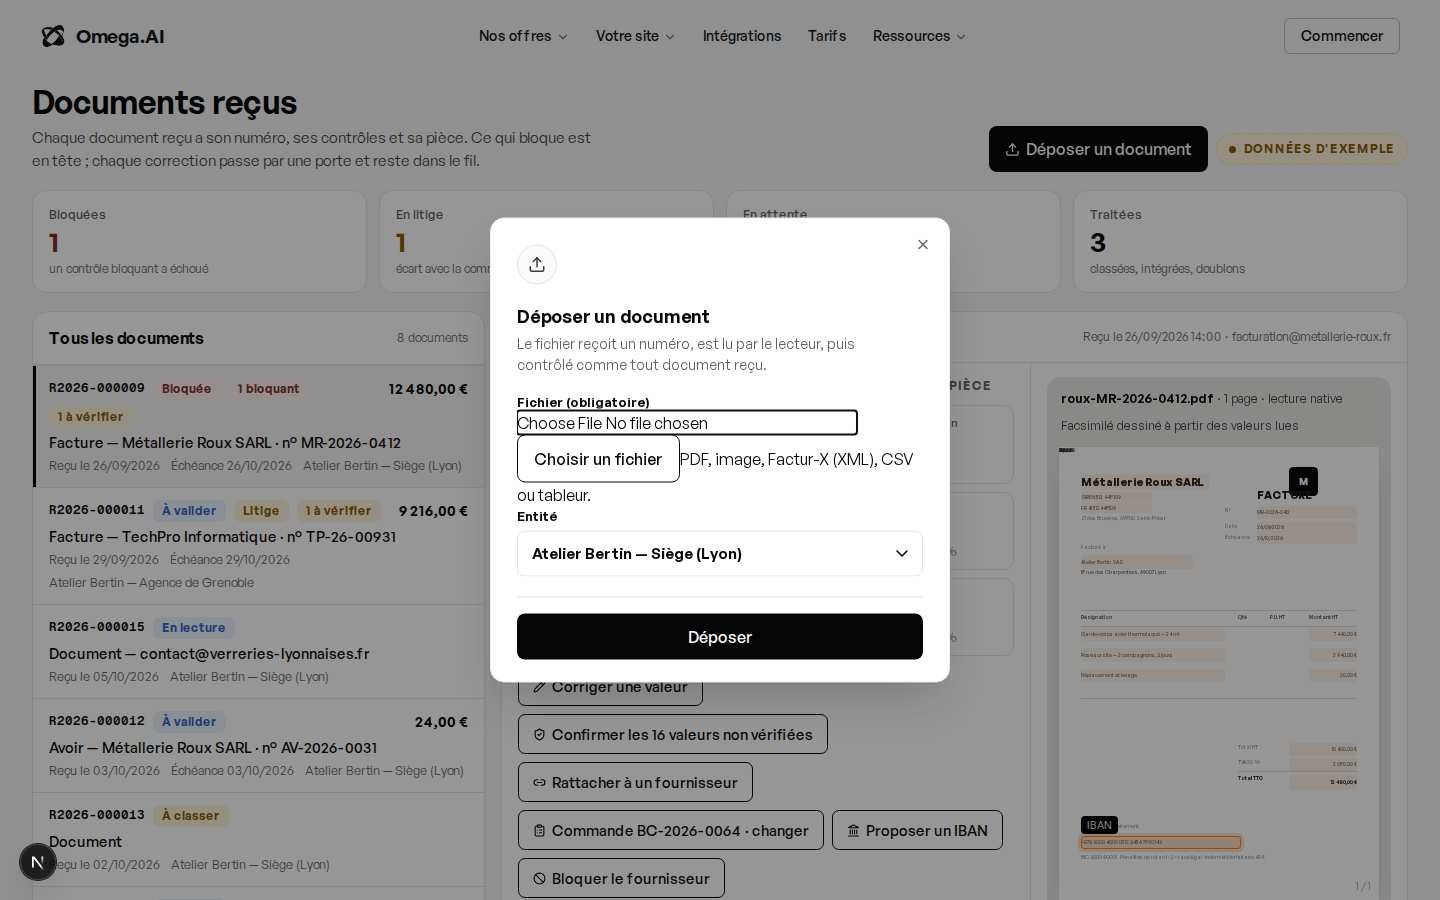
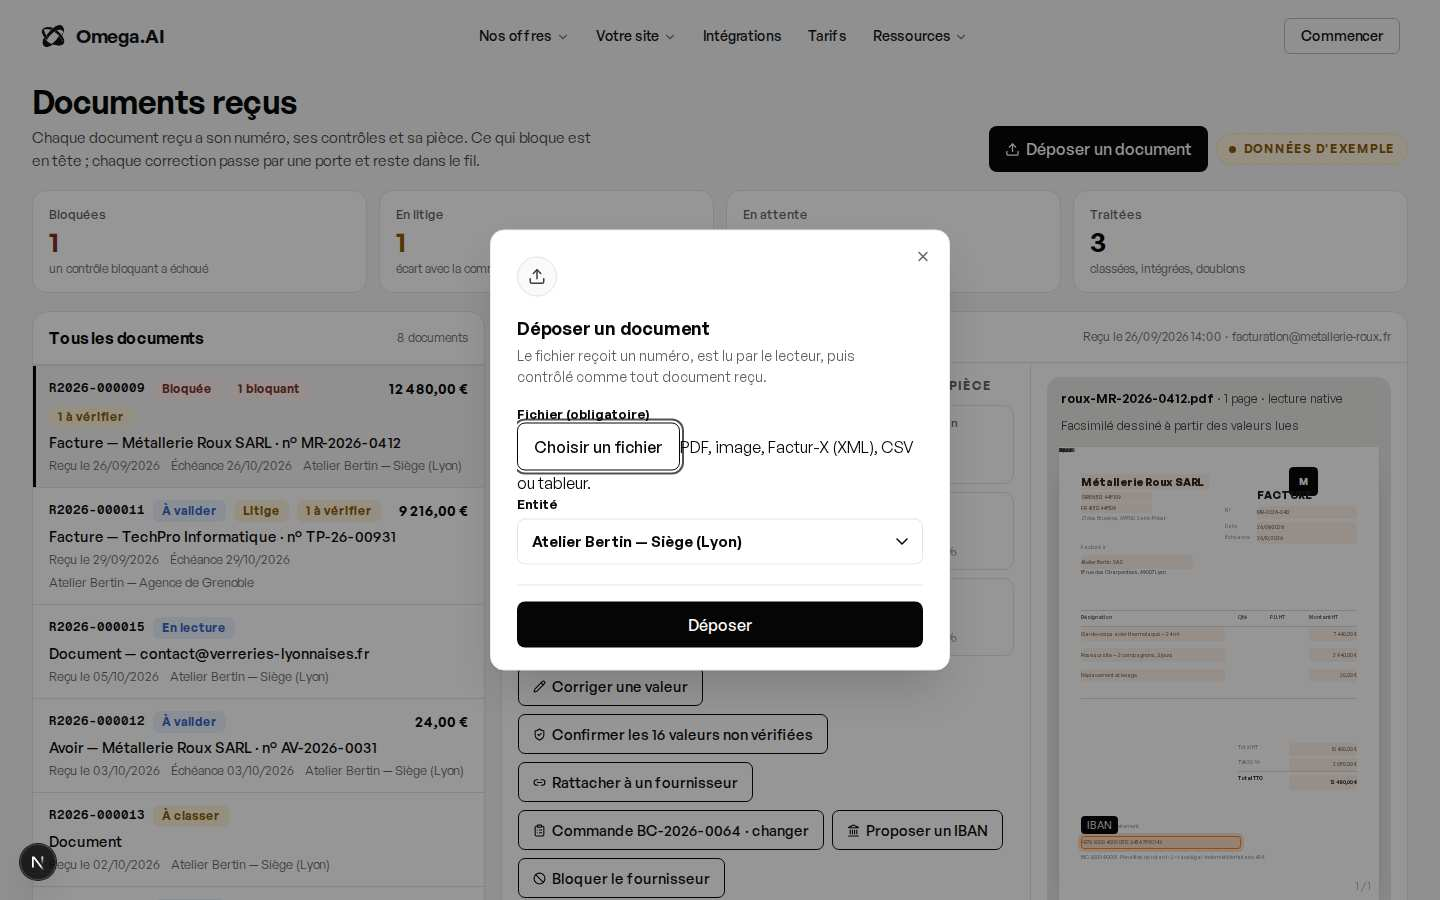
Espace client : le contrôle de fichier natif est caché aussi dans les dialogues (portail hors de .esp)
La règle qui cache l'<input type="file"> était préfixée .esp ; les
dialogues Radix sont rendus dans un portail sous <body>, hors de cette
racine, et le « Choose File / No file chosen » du navigateur dépassait
au-dessus de notre bouton « Choisir un fichier » (capture du dépôt FILED).
La règle perd son préfixe. La recette vérifie désormais que le contrôle
natif est bien invisible (opacité 0, hors flux) plutôt que de chercher un
texte que innerText ne rend pas.

Claude-Session: https://claude.ai/code/session_01DdgwRadkJFx5u9buwh5crS

Changed region(s): [[0.3438, 0.3422, 0.625, 0.6222], [0.3438, 0.6533, 0.6562, 0.7778], [0.3438, 0.2178, 0.6562, 0.28]]

diff --git a/components/espace/espace.css b/components/espace/espace.css
@@ -1310,8 +1310,11 @@
 .esp .esp-carte-corps[style*="grid"] {
   grid-template-columns: minmax(0, 1fr);
 }
-/* le contrôle de fichier natif, caché mais accessible (focus sur le label) */
-.esp .esp-fichier-natif {
+/* le contrôle de fichier natif, caché mais accessible (focus sur le label).
+   SANS le préfixe .esp : les dialogues sont rendus dans un portail, hors de
+   la racine .esp — vu le 05/10, le « Choose File » du navigateur dépassait
+   au-dessus de notre bouton. */
+.esp-fichier-natif {
   position: absolute;
   width: 1px;
   height: 1px;
@@ -1319,7 +1322,7 @@
   overflow: hidden;
   pointer-events: none;
 }
-.esp .esp-fichier-natif:focus-visible + label {
+.esp-fichier-natif:focus-visible + label {
   outline: 2px solid rgba(5, 5, 5, 0.7);
   outline-offset: 2px;
 }
